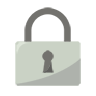
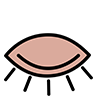
change visibility of password entries

diff --git a/PassManager-UI/PassManager-UI/PassManager-UI/Views/AuthenticationView.xaml b/PassManager-UI/PassManager-UI/PassManager-UI/Views/AuthenticationView.xaml
@@ -58,15 +58,14 @@
                     </Frame>
                     <!--Password-->
                     <Frame Style="{StaticResource CustomFrame}">
-                        <StackLayout x:Name="password" Orientation="Horizontal">
-                            <CRender:CustomEntry IsPassword="True" Placeholder="Password" HorizontalTextAlignment="Start" 
+                        <StackLayout Orientation="Horizontal">
+                            <CRender:CustomEntry IsPassword="{Binding IsPasswordVisible}" Placeholder="Password" HorizontalTextAlignment="Start" 
                                    Margin="15,0,0,0" FontSize="17" HorizontalOptions="FillAndExpand" 
                                     Text="{Binding Password, Mode=TwoWay}"/>
                             <Frame Style="{StaticResource RoundFrame}">
-                                <Image Source="{MarkExt:EmbeddedImage PassManager-UI.Images.Locked.png}" Aspect="AspectFill" Margin="0">
+                                <Image Source="{Binding PassEntryIcon}" Aspect="AspectFill" Margin="0">
                                     <Image.GestureRecognizers>
-                                        <TapGestureRecognizer Command="{Binding ChangeVisCommand}"
-                                            CommandParameter="{Binding Source={x:Reference password}}" />
+                                        <TapGestureRecognizer Command="{Binding ChangeVisOfPass}" />
                                     </Image.GestureRecognizers>
                                 </Image>
                             </Frame>
@@ -74,15 +73,14 @@
                     </Frame>
                     <!--Confirm password-->
                     <Frame Style="{StaticResource CustomFrame}" IsEnabled="{Binding IsRegisterPage}" IsVisible="{Binding IsRegisterPage}">
-                        <StackLayout x:Name="confirmPass" Orientation="Horizontal">
-                            <CRender:CustomEntry IsPassword="True" Placeholder="Confirm password" HorizontalTextAlignment="Start" 
+                        <StackLayout Orientation="Horizontal">
+                            <CRender:CustomEntry IsPassword="{Binding IsConfirmPassVisible}" Placeholder="Confirm password" HorizontalTextAlignment="Start" 
                                    Margin="15,0,0,0" FontSize="17" HorizontalOptions="FillAndExpand" 
                                    Text="{Binding ConfirmPass, Mode=TwoWay}"/>
                             <Frame Style="{StaticResource RoundFrame}">
-                                <Image Source="{MarkExt:EmbeddedImage PassManager-UI.Images.Locked.png}" Aspect="AspectFill" Margin="0">
+                                <Image Source="{Binding ConfirmPassEntryIcon}" Aspect="AspectFill" Margin="0">
                                     <Image.GestureRecognizers>
-                                        <TapGestureRecognizer Command="{Binding ChangeVisCommand}"
-                                            CommandParameter="{Binding Source={x:Reference confirmPass}}" />
+                                        <TapGestureRecognizer Command="{Binding ChangeVisOfConfirmPass}" />
                                     </Image.GestureRecognizers>
                                 </Image>
                             </Frame>

diff --git a/PassManager-UI/PassManager-UI/PassManager-UI/Views/CreateItems/CreatePasswordView.xaml b/PassManager-UI/PassManager-UI/PassManager-UI/Views/CreateItems/CreatePasswordView.xaml
@@ -51,8 +51,17 @@
                 <Label Text="Password:" Style="{StaticResource LabelForEntries}"/>
                 <StackLayout Orientation="Horizontal">
                     <Frame Style="{StaticResource CustomFrame}">
-                        <CRender:CustomEntry Text="{Binding Password.PasswordEncrypted}"  IsPassword="True"
-                                                          IsReadOnly="{Binding ReadOnly}" Style="{StaticResource CustomEntry}"/>
+                        <StackLayout Orientation="Horizontal">
+                            <CRender:CustomEntry Text="{Binding Password.PasswordEncrypted}"  IsPassword="{Binding IsPasswordVisible}"
+                                                              IsReadOnly="{Binding ReadOnly}" Style="{StaticResource CustomEntry}"/>
+                            <Frame Style="{StaticResource RoundFrame}">
+                                <Image Source="{Binding PassEntryIcon}" Aspect="AspectFill" Margin="0">
+                                    <Image.GestureRecognizers>
+                                        <TapGestureRecognizer Command="{Binding ChangeVisOfPassword}" />
+                                    </Image.GestureRecognizers>
+                                </Image>
+                            </Frame>
+                        </StackLayout>
                     </Frame>
                     <Button Command="{Binding CopyPassword}" Style="{DynamicResource CopyEntryBtn}"/>
                 </StackLayout>

diff --git a/PassManager-UI/PassManager-UI/PassManager-UI/Styles/Entries.xaml b/PassManager-UI/PassManager-UI/PassManager-UI/Styles/Entries.xaml
@@ -7,5 +7,6 @@
         <Setter Property="TextColor" Value="{DynamicResource FrameTopColor}"/>
         <Setter Property="FontSize" Value="17"/>
         <Setter Property="Margin" Value="9,0,9,0"/>
+        <Setter Property="HorizontalOptions" Value="FillAndExpand"/>
     </Style>
 </ResourceDictionary>

diff --git a/PassManager-UI/PassManager-UI/PassManager-UI/ViewModels/AuthenticationViewModel.cs b/PassManager-UI/PassManager-UI/PassManager-UI/ViewModels/AuthenticationViewModel.cs
@@ -15,11 +15,16 @@ namespace PassManager.Views
         public AuthenticationViewModel()
         {
             //set some default values
+            IsConfirmPassVisible = true;
+            IsPasswordVisible = true;
+            PassEntryIcon = ImageSource.FromResource($"PassManager-UI.Images.Locked.png");
+            ConfirmPassEntryIcon = ImageSource.FromResource($"PassManager-UI.Images.Locked.png");
             ActionStatus = true;
             CurrentAction = TypeOfActions.Sign_In;
             IsRegisterPage = false;
             //set commands
-            _changeVisCommand = new Command(ChangeVisOfPassField);
+            _changeVisOfConfirmPass = new Command(ChangeVisOfConfirmPassword);
+            _changeVisOfPass = new Command(ChangeVisOfPassword);
             _changePageCommand = new Command(ChangePage);
             _actionCommand = new Command(Action);
             //set some names for page
@@ -30,19 +35,30 @@ namespace PassManager.Views
         private string _errorMsg;
         private string _anotherPageText;
         private string _questionForUser;
-        private bool _isError;
-        private bool _actionStatus;
-        private bool _isRegisterPage;
         private string _username;
         private string _password;
         private string _confirmPass;
+        private ImageSource _passEntryIcon;
+        private ImageSource _confirmPassEntryIcon;
+        //booleans
+        private bool _isError;
+        private bool _actionStatus;
+        private bool _isRegisterPage;
+        private bool _isPasswordVisible;
+        private bool _isConfirmPassVisible;
         //commands
-        private ICommand _changeVisCommand;
         private ICommand _changePageCommand;
         private ICommand _actionCommand;
-        public ICommand ChangeVisCommand
+        private ICommand _changeVisOfConfirmPass;
+        private ICommand _changeVisOfPass;
+        //commands prop
+        public ICommand ChangeVisOfConfirmPass
         {
-            get { return _changeVisCommand; }
+            get { return _changeVisOfConfirmPass; }
+        }
+        public ICommand ChangeVisOfPass
+        {
+            get { return _changeVisOfPass; }
         }
         public ICommand ChangePageCommand
         {
@@ -53,6 +69,26 @@ namespace PassManager.Views
             get { return _actionCommand; }
         }
         //prop for the view
+        public ImageSource PassEntryIcon
+        {
+            get { return _passEntryIcon; }
+            private set { _passEntryIcon = value; NotifyPropertyChanged(); }
+        }
+        public ImageSource ConfirmPassEntryIcon
+        {
+            get { return _confirmPassEntryIcon; }
+            private set { _confirmPassEntryIcon = value; NotifyPropertyChanged(); }
+        }
+        public bool IsPasswordVisible
+        {
+            get { return _isPasswordVisible; }
+            private set { _isPasswordVisible = value; NotifyPropertyChanged(); }
+        }
+        public bool IsConfirmPassVisible
+        {
+            get { return _isConfirmPassVisible; }
+            private set { _isConfirmPassVisible = value; NotifyPropertyChanged(); }
+        }
         public string Username
         {
             get { return _username; }
@@ -99,22 +135,15 @@ namespace PassManager.Views
             private set { _isRegisterPage = value; NotifyPropertyChanged(); }
         }
         //commands implementation
-        private void ChangeVisOfPassField(object obj)
+        private void ChangeVisOfConfirmPassword()
         {
-            var mainStack = obj as StackLayout;
-            CustomeEntry entry = mainStack.Children.FirstOrDefault() as CustomeEntry;
-            bool statusPassVis = false;
-            if (entry != null)
-            {
-                statusPassVis = entry.IsPassword;
-                entry.IsPassword = statusPassVis == true ? false : true;
-            }
-            Frame frame = mainStack.Children.Where(s => s.GetType().Name == "Frame").FirstOrDefault() as Frame;
-            if (frame != null)
-            {
-                Image image = frame.Content as Image;
-                if (image != null) image.Source = ImageSource.FromResource($"PassManager-UI.Images.{(statusPassVis ? "Open" : "Locked")}.png");
-            }
+            ConfirmPassEntryIcon = ImageSource.FromResource($"PassManager-UI.Images.{(IsConfirmPassVisible ? "Open" : "Locked")}.png");
+            IsConfirmPassVisible = !IsConfirmPassVisible;
+        }
+        private void ChangeVisOfPassword()
+        {
+            PassEntryIcon = ImageSource.FromResource($"PassManager-UI.Images.{(IsPasswordVisible ? "Open" : "Locked")}.png");
+            IsPasswordVisible = !IsPasswordVisible;
         }
         private void ChangePage()
         {
@@ -156,7 +185,7 @@ namespace PassManager.Views
         //methods
         private void Register()
         {
-            if (CheckInternet())
+            if (IsInternet())
             {
                 //    //check if all fields are completed
                 //    if (String.IsNullOrWhiteSpace(Username) || String.IsNullOrWhiteSpace(Password) || String.IsNullOrWhiteSpace(ConfirmPass)) DisplayError("You need to complete all fields in order to register!");
@@ -189,7 +218,7 @@ namespace PassManager.Views
         }
         private async void SignIn()
         {
-            if (CheckInternet())
+            if (IsInternet())
             {
                 //check if fields are completed
                 if (String.IsNullOrWhiteSpace(Username) || String.IsNullOrWhiteSpace(Password)) DisplayError("You need to complete all fields in order to register!");

diff --git a/PassManager-UI/PassManager-UI/PassManager-UI/ViewModels/CreateItems/CreatePasswordVM.cs b/PassManager-UI/PassManager-UI/PassManager-UI/ViewModels/CreateItems/CreatePasswordVM.cs
@@ -16,10 +16,15 @@ namespace PassManager.ViewModels.CreateItems
     {
         public CreatePasswordVM() : base(Enums.TypeOfItems.Password)
         {
+            //set some defaults values
+            IsPasswordVisible = true;
+            PassEntryIcon = ImageSource.FromResource($"PassManager-UI.Images.Locked.png");
+            //set commands
             _goBack = new Command(GoBackButton);
             _copyUsername = new Command(CopyUsernameToClipboard);
             _copyPassword = new Command(CopyPasswordToClipboard);
             _copyUrl = new Command(CopyUrlToClipboard);
+            _changeVisOfPassword = new Command(ChangeVisOfPass);
             _password = new Password();
         }
         //variables
@@ -29,12 +34,29 @@ namespace PassManager.ViewModels.CreateItems
         private ICommand _copyUrl;
         private ICommand _copyUsername;
         private ICommand _copyPassword;
+        private ICommand _changeVisOfPassword;
+        private bool _isPasswordVisible;
+        private ImageSource _passEntryIcon;
         //props
+        public bool IsPasswordVisible
+        {
+            get { return _isPasswordVisible; }
+            private set { _isPasswordVisible = value; NotifyPropertyChanged(); }
+        }
+        public ImageSource PassEntryIcon
+        {
+            get { return _passEntryIcon; }
+            private set { _passEntryIcon = value; NotifyPropertyChanged(); }
+        }
         public Password Password {
             get { return _password; }
             set { _password = value; NotifyPropertyChanged(); }
         }
         //commands
+        public ICommand ChangeVisOfPassword
+        {
+            get { return _changeVisOfPassword; }
+        }
         public ICommand CopyUsername
         {
             get { return _copyUsername; }
@@ -169,6 +191,10 @@ namespace PassManager.ViewModels.CreateItems
         private async void CopyUsernameToClipboard() { await CopyToClipboard(Password.Username); }
         private async void CopyPasswordToClipboard() { await CopyToClipboard(Password.PasswordEncrypted); }
         private async void CopyUrlToClipboard() { await CopyToClipboard(Password.Url); }
-
+        private void ChangeVisOfPass()
+        {
+            PassEntryIcon = ImageSource.FromResource($"PassManager-UI.Images.{(IsPasswordVisible ? "Open" : "Locked")}.png");
+            IsPasswordVisible = !IsPasswordVisible;
+        }
     }
 }

diff --git a/PassManager-UI/PassManager-UI/PassManager-UI.Android/Resources/Resource.designer.cs b/PassManager-UI/PassManager-UI/PassManager-UI.Android/Resources/Resource.designer.cs
@@ -11918,13 +11918,19 @@ namespace PassManager_UI.Droid
 		{
 			
 			// aapt resource value: 0x7F0C0000
-			public const int icon = 2131492864;
+			public const int HidePass = 2131492864;
 			
 			// aapt resource value: 0x7F0C0001
-			public const int icon_round = 2131492865;
+			public const int icon = 2131492865;
 			
 			// aapt resource value: 0x7F0C0002
-			public const int launcher_foreground = 2131492866;
+			public const int icon_round = 2131492866;
+			
+			// aapt resource value: 0x7F0C0003
+			public const int launcher_foreground = 2131492867;
+			
+			// aapt resource value: 0x7F0C0004
+			public const int ShowPass = 2131492868;
 			
 			static Mipmap()
 			{
